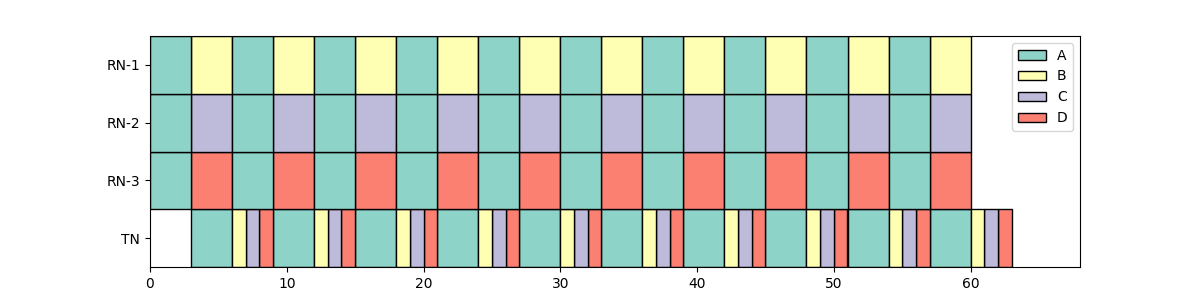
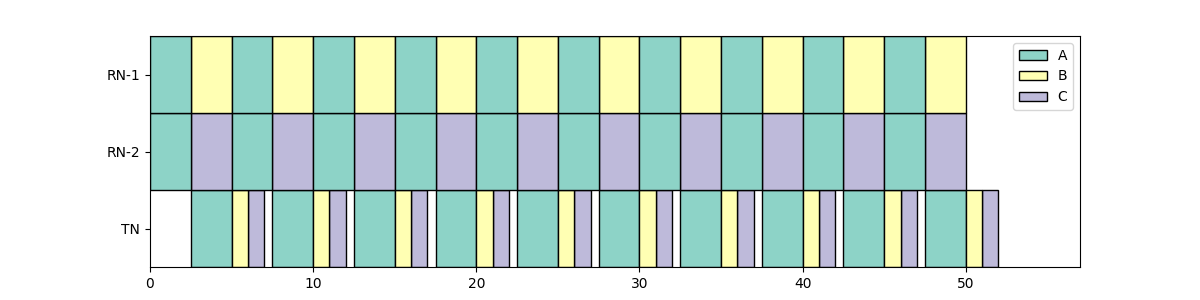
update show cases

diff --git a/global_scheduler/cases.py b/global_scheduler/cases.py
@@ -17,21 +17,21 @@ plt.figure(figsize=(12, 3))
 # simulator = WeaveSimulator([job_A, job_B, job_C], ['A', 'B', 'C'])
 
 # Case-3
-# job_A = Job('A', 2, 1, ['RN-1'], ['TN'])
-# job_B = Job('B', 2, 1, ['RN-2], ['TN'])
-# job_C = Job('C', 2, 1, ['RN-3'], ['TN'])
+# job_A = Job('A', 2.5, 1, ['RN-1'], ['TN'])
+# job_B = Job('B', 2.5, 1, ['RN-2'], ['TN'])
+# job_C = Job('C', 2.5, 1, ['RN-3'], ['TN'])
 # simulator = WeaveSimulator([job_A, job_B, job_C], ['A', 'B', 'C'])
 
 # Case-4
-# job_A = Job('A', 5, 1, ['RN-1'], ['TN'])
-# job_B = Job('B', 2, 1, ['RN-2'], ['TN'])
-# job_C = Job('C', 2, 1, ['RN-3'], ['TN'])
+# job_A = Job('A', 6, 1, ['RN-1'], ['TN'])
+# job_B = Job('B', 2.5, 1, ['RN-2'], ['TN'])
+# job_C = Job('C', 2.5, 1, ['RN-3'], ['TN'])
 # simulator = WeaveSimulator([job_A, job_B, job_C], ['A', 'B', 'C', 'B', 'C'])
 
 # Case-5
-job_A = Job('A', 3, 3, ['RN-1', 'RN-2', 'RN-3'], ['TN'])
-job_B = Job('B', 3, 1, ['RN-1'], ['TN'])
-job_C = Job('C', 3, 1, ['RN-2'], ['TN'])
-job_D = Job('D', 3, 1, ['RN-3'], ['TN'])
-simulator = WeaveSimulator([job_A, job_B, job_C, job_D], ['A', 'B', 'C', 'D'])
+job_A = Job('A', 2.5, 2.5, ['RN-1', 'RN-2'], ['TN'])
+job_B = Job('B', 2.5, 1, ['RN-1'], ['TN'])
+job_C = Job('C', 2.5, 1, ['RN-2'], ['TN'])
+simulator = WeaveSimulator([job_A, job_B, job_C], ['A', 'B', 'C'])
+print(simulator.simulate_run(10)[-1])
 simulator.plot(10, "global_scheduler/sim.png")
